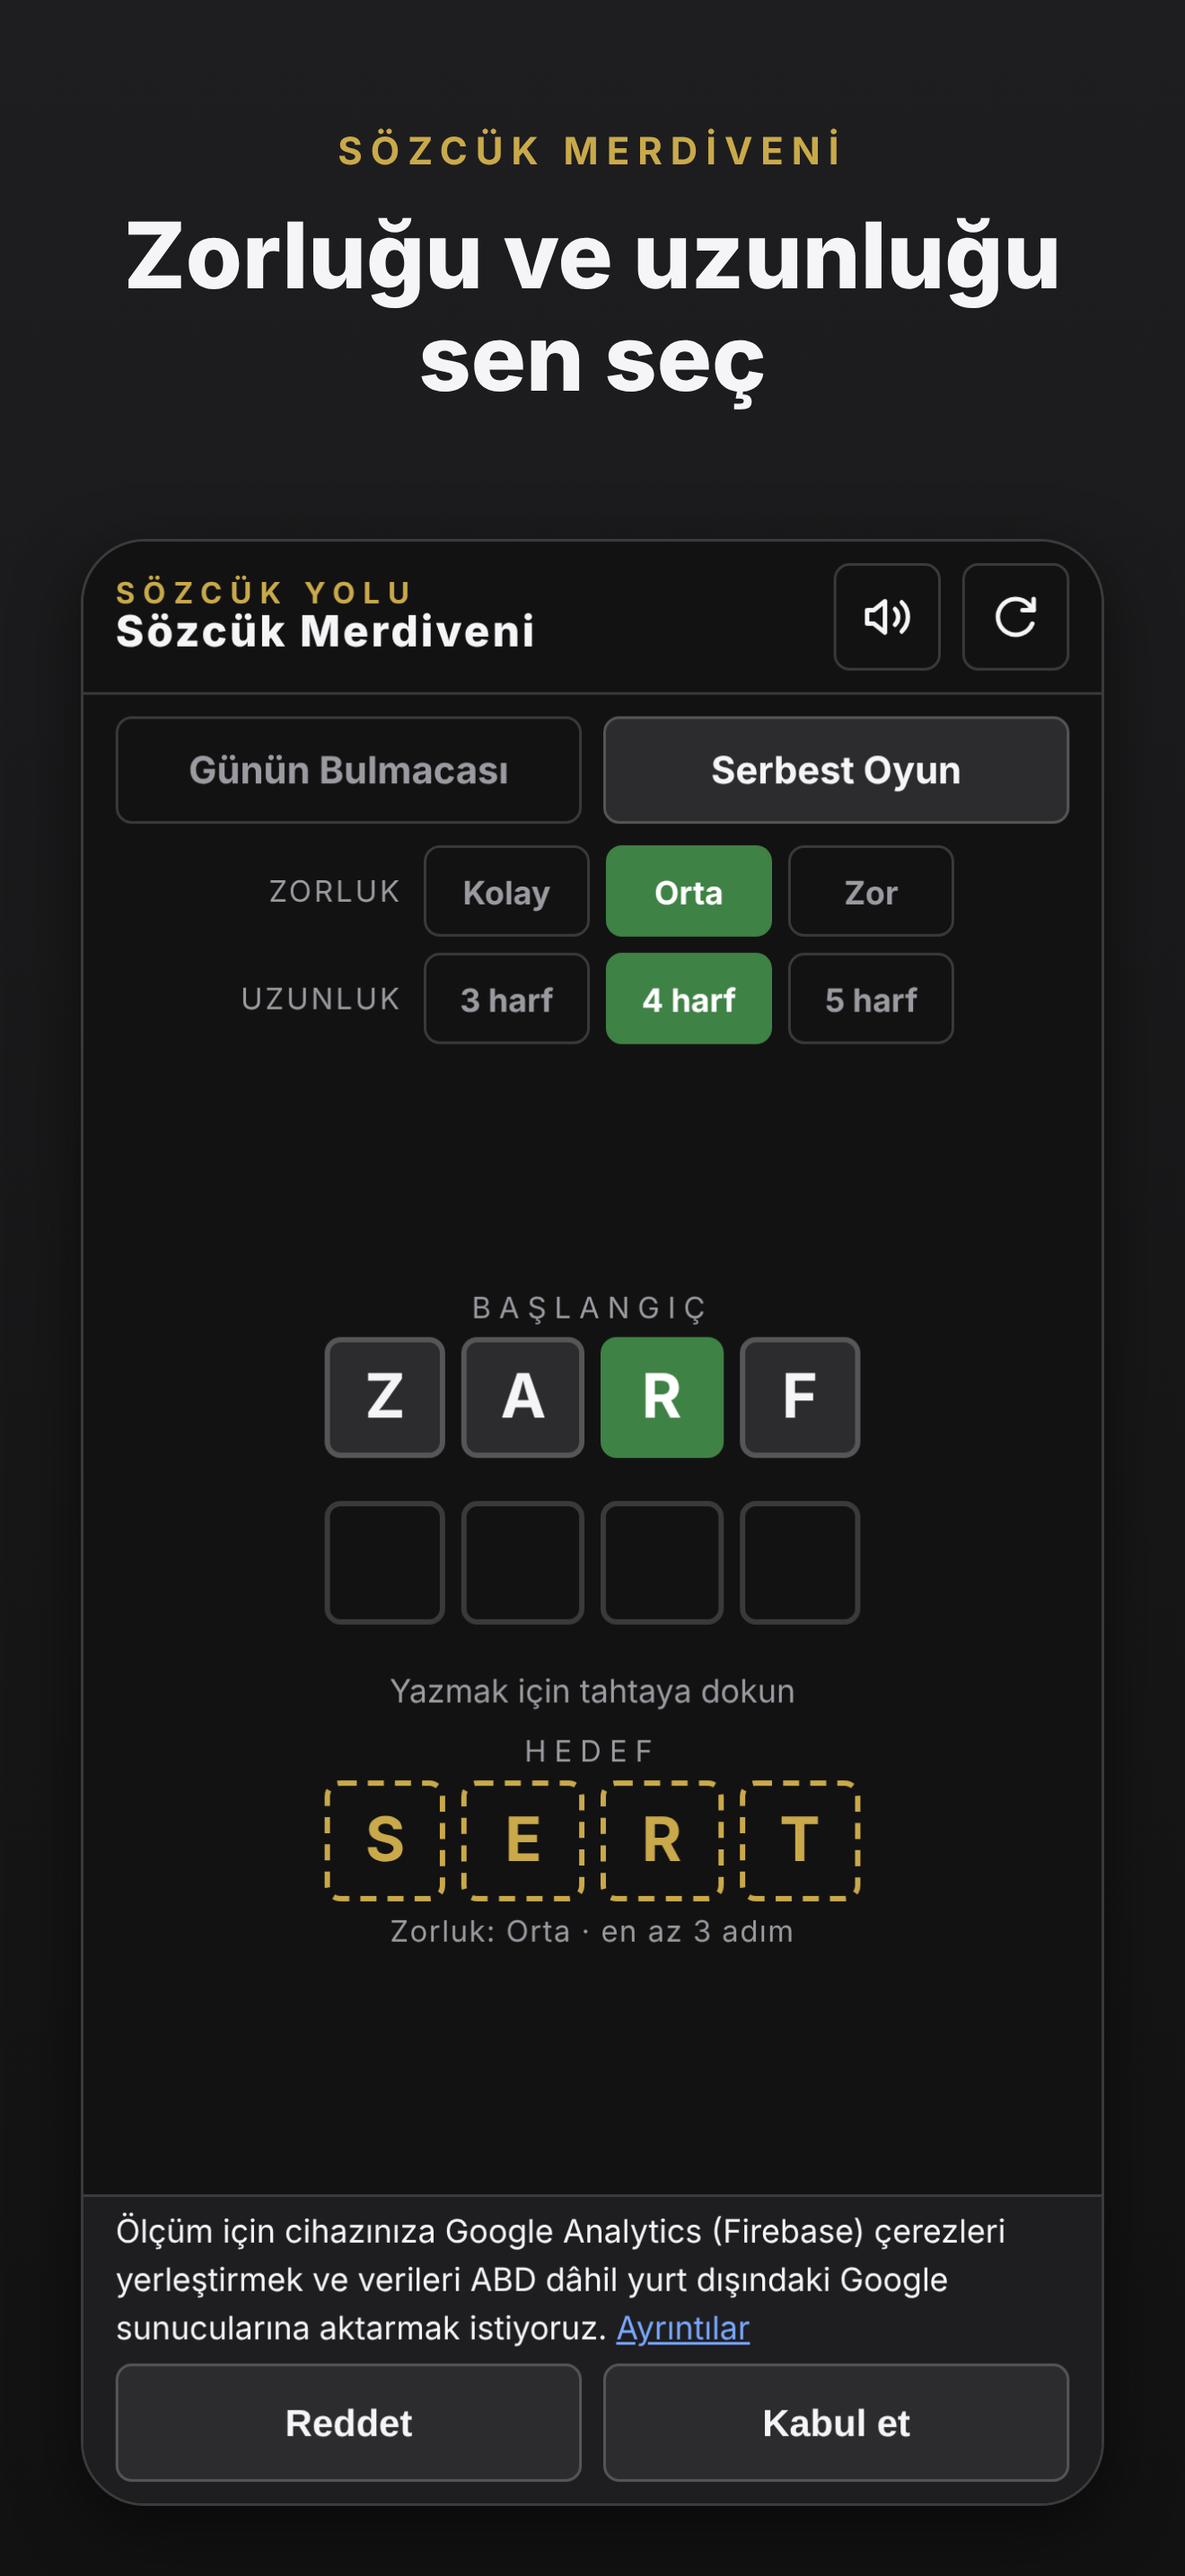
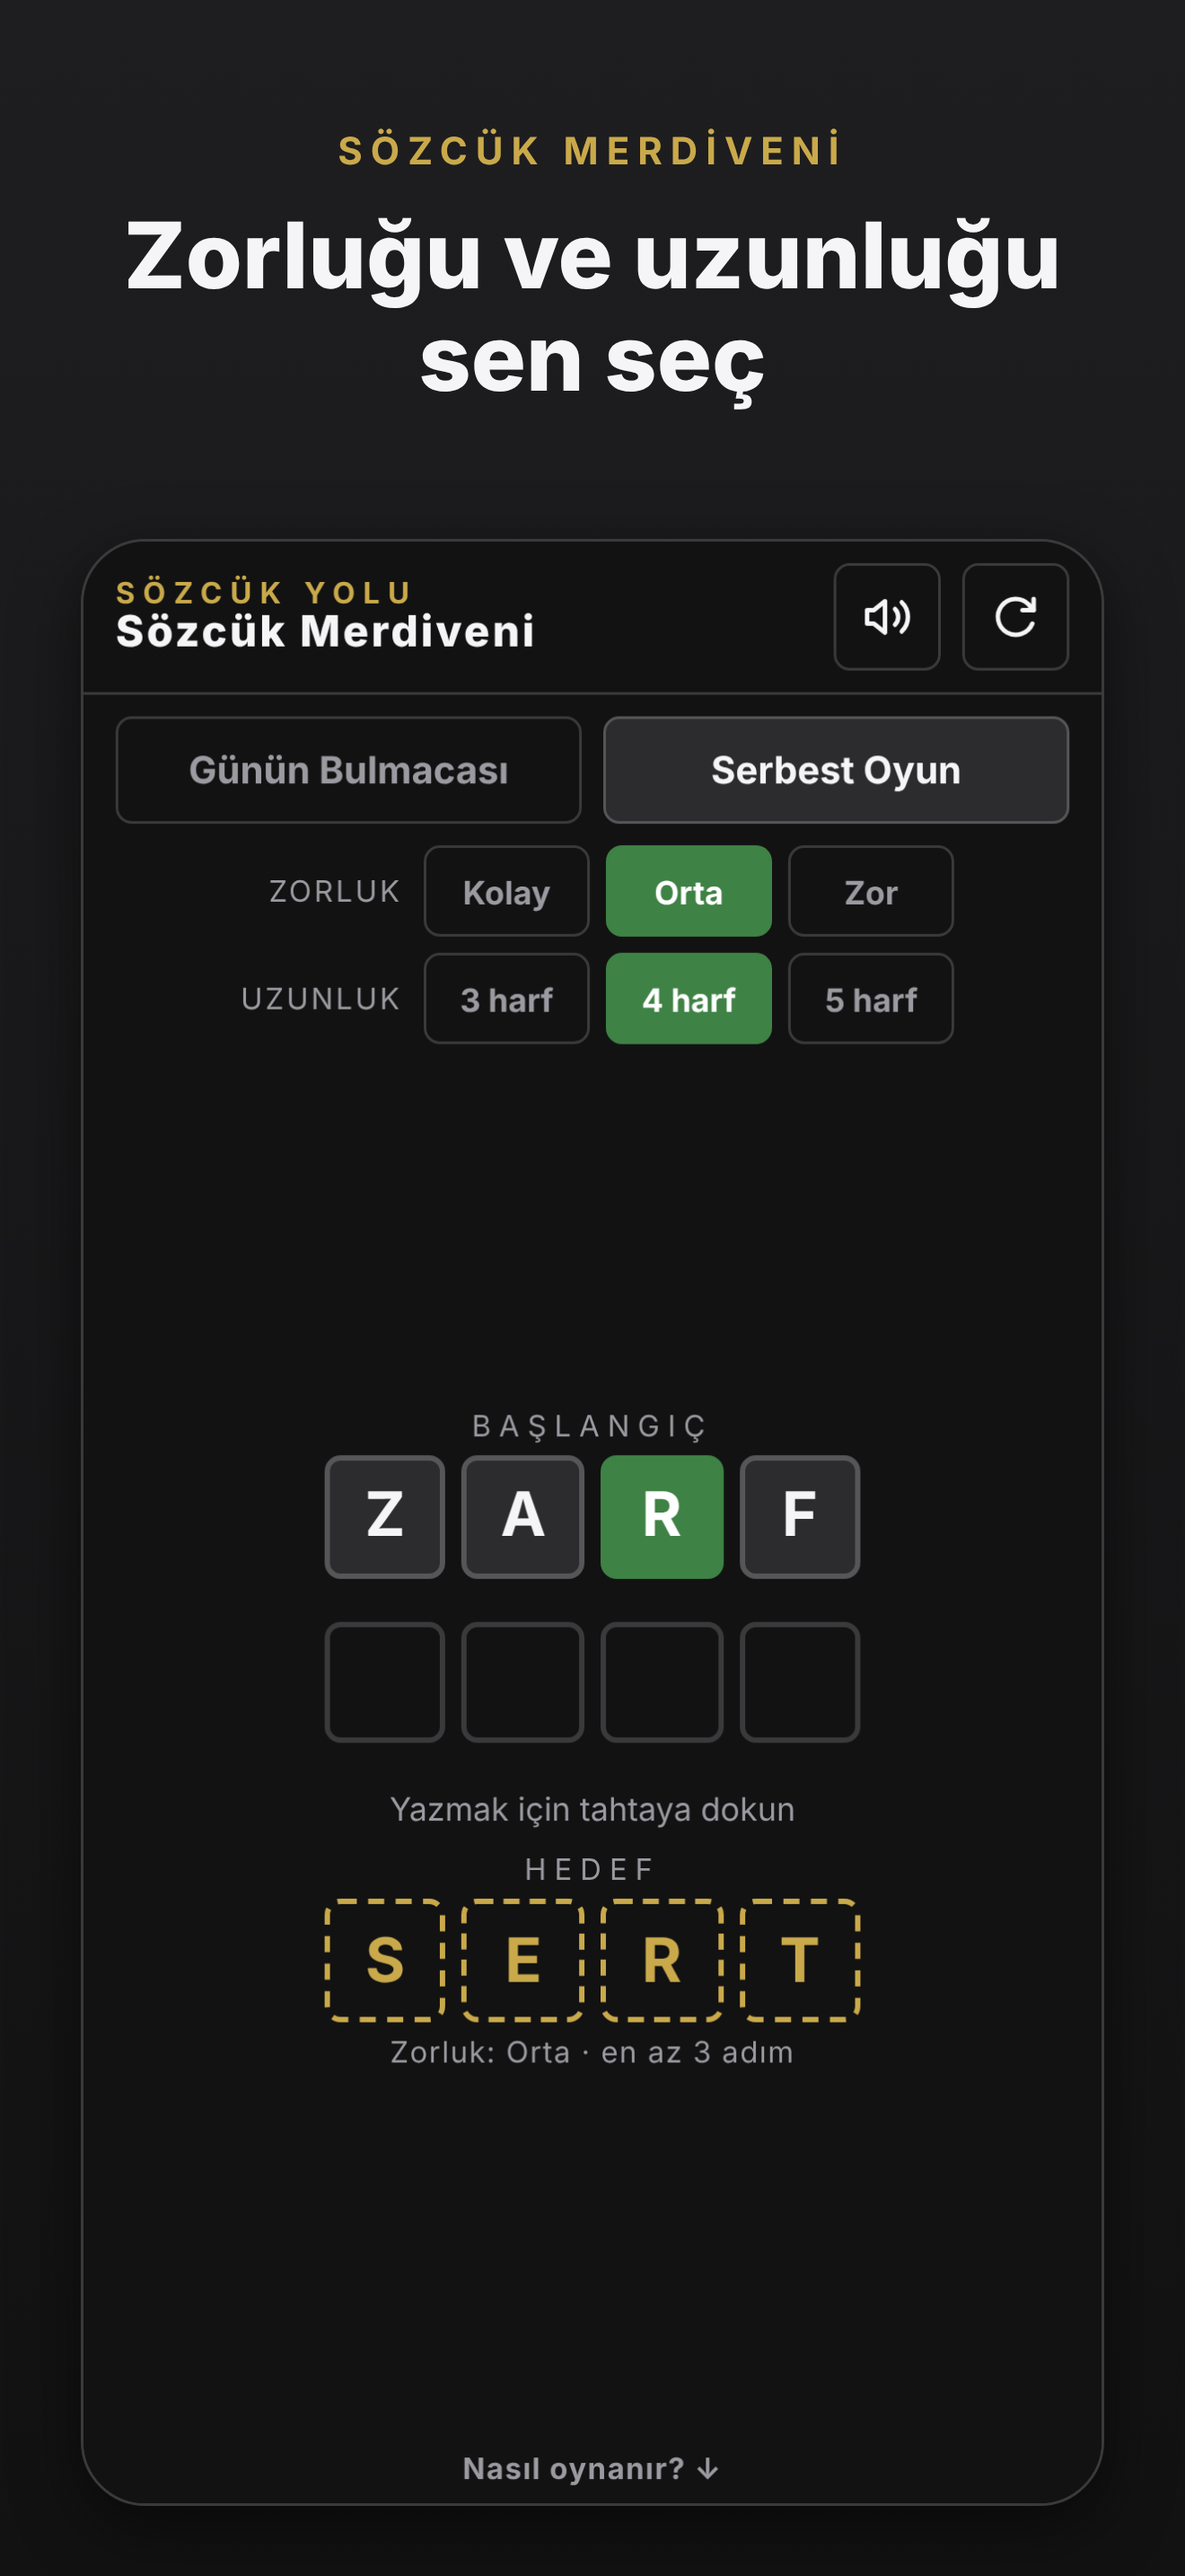
Mağaza görselleri: izin bildirimi görünmez
Uygulamada analitik ve izin bildirimi yok; görsel üretici sm_izin'i
"hayir" yaparak bildirimi kapatır. Görseller yeniden üretildi.

Claude-Session: https://claude.ai/code/session_01C8YUUGzBwuF5YnZnuwjbBR

diff --git a/tools/magaza_gorsel.js b/tools/magaza_gorsel.js
@@ -63,6 +63,8 @@ async function oyunEkranlari(tarayici) {
   await disAgiKapat(baglam);
   // Serbest oyunun rastgele bulmacası her çalıştırmada aynı çıksın
   await baglam.addInitScript(() => {
+    // Uygulamada analitik ve izin bildirimi yok; mağaza görselinde de görünmesin
+    localStorage.setItem("sm_izin", "hayir");
     let tohum = 20261112;
     Math.random = () => (tohum = (tohum * 1664525 + 1013904223) % 4294967296) / 4294967296;
   });
